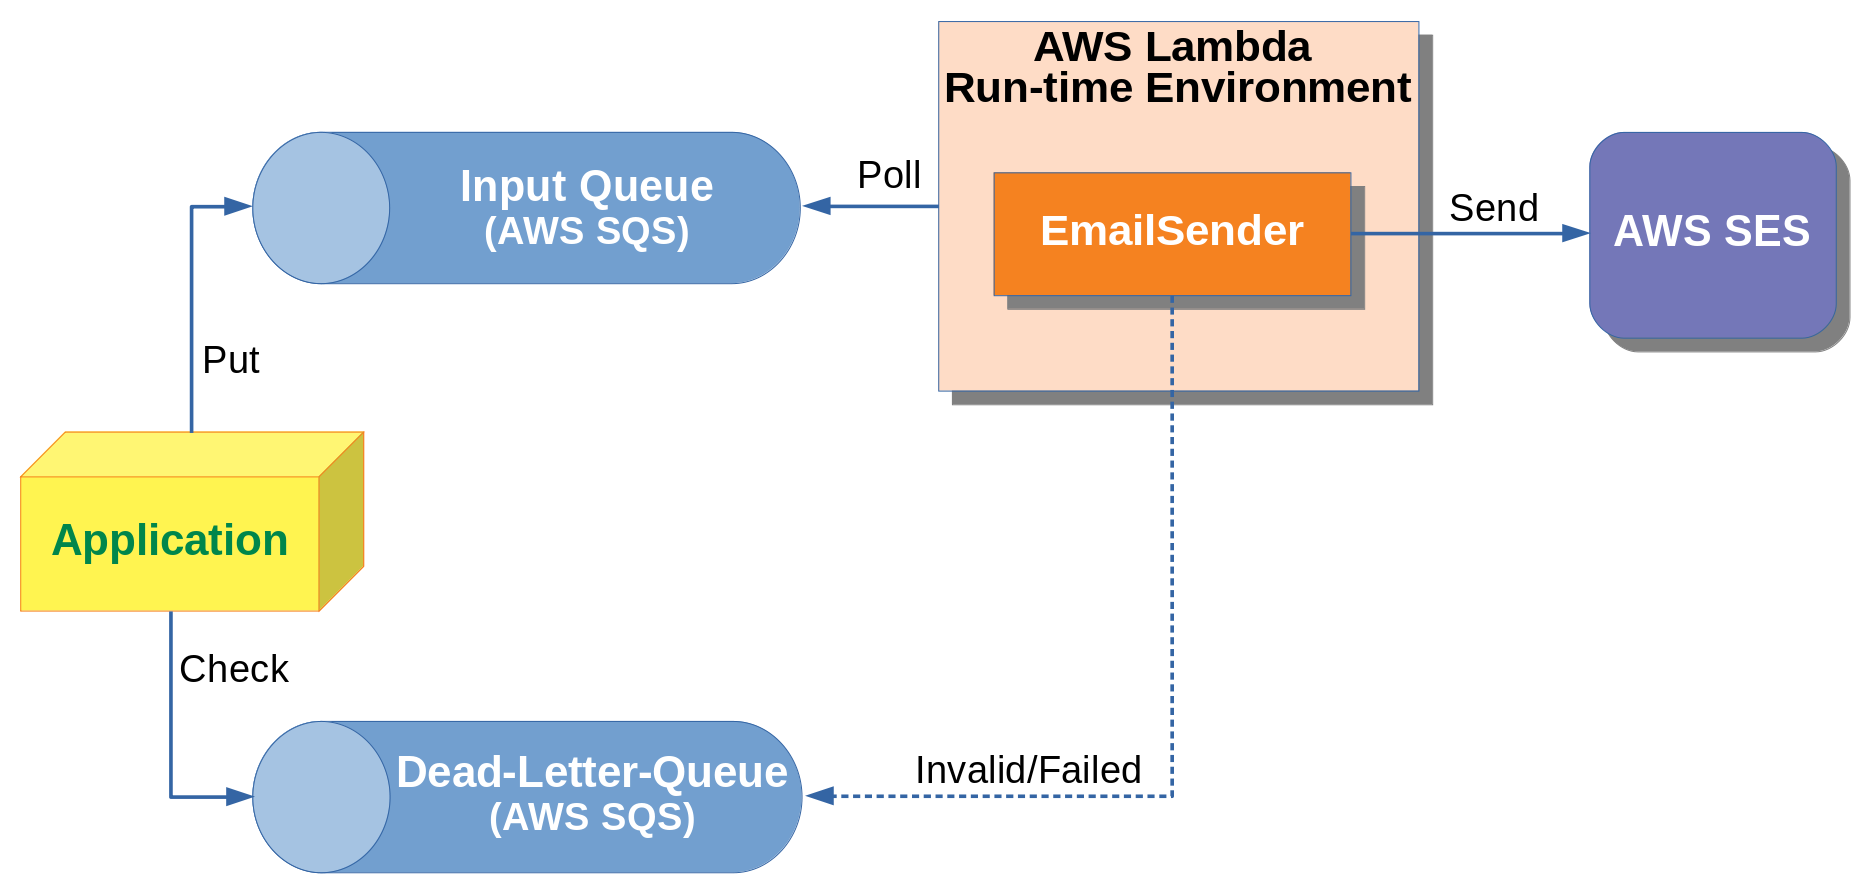
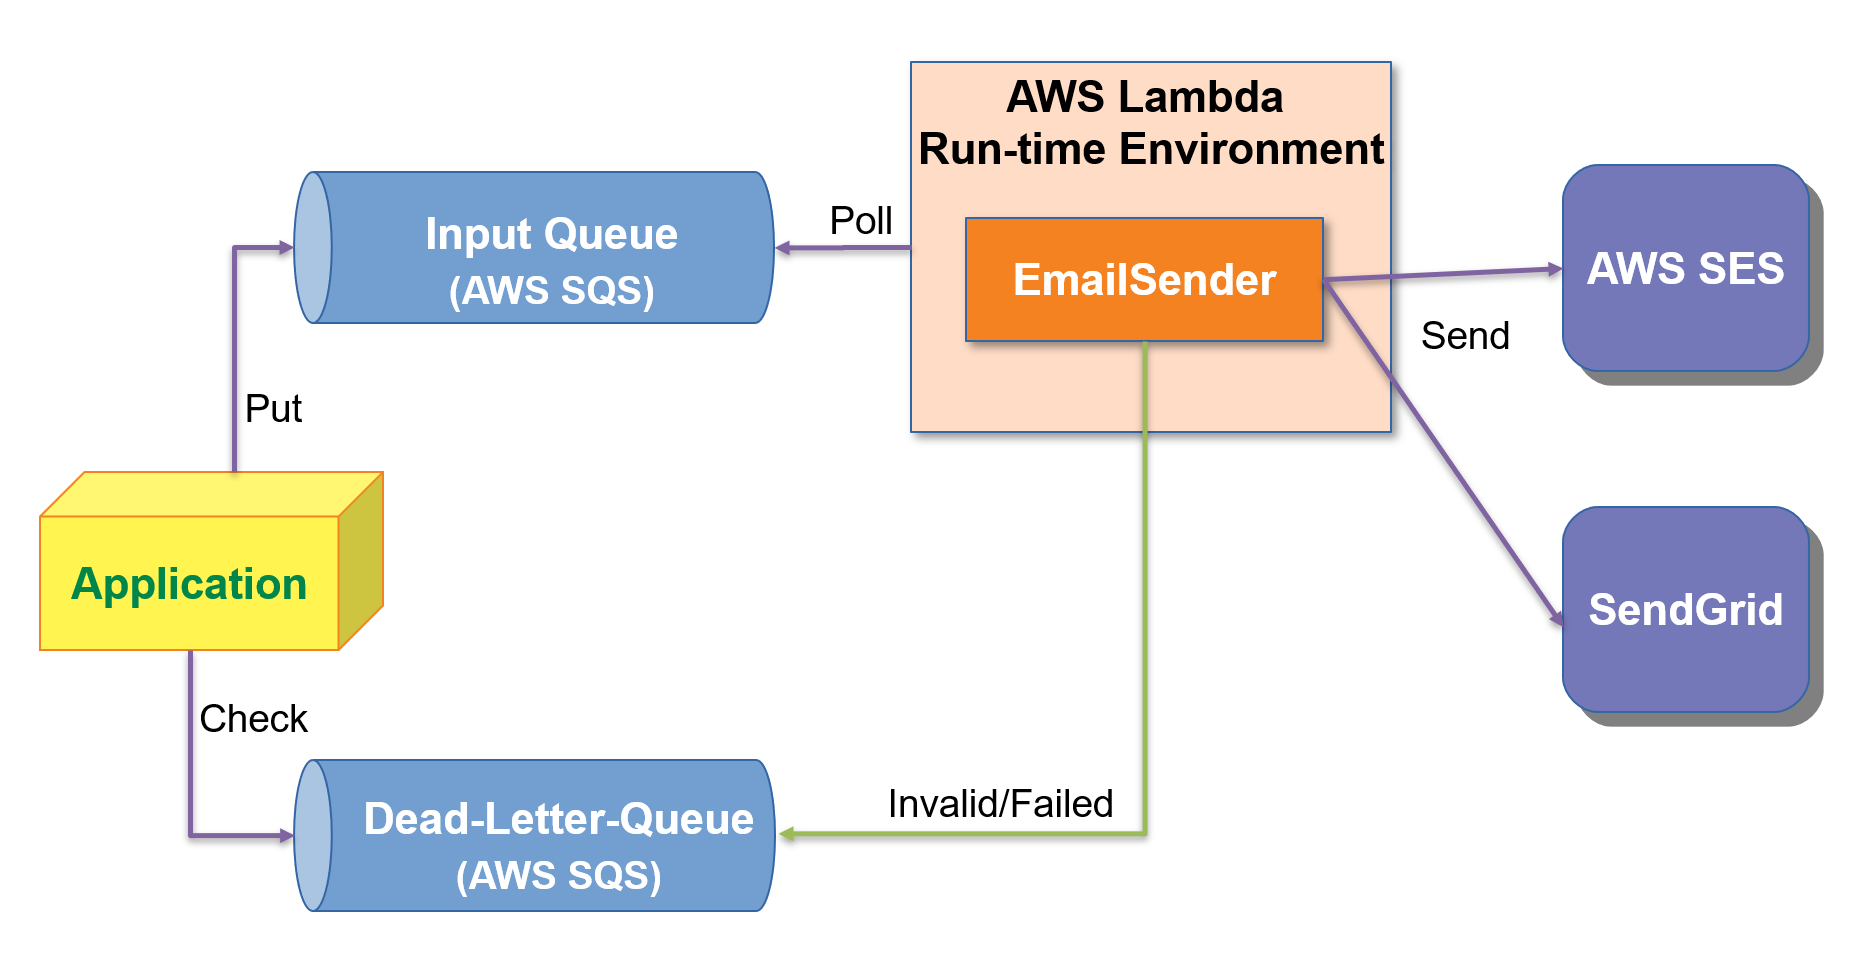
Add SendGrid support

Changed region(s): [[0.0, 0.0, 0.9962, 0.9989], [0.8094, 0.5146, 0.9962, 0.787], [0.7783, 0.4843, 0.8094, 0.5751]]

diff --git a/src/main/java/net/sf/jabb/email/sender/LambdaEmailSender.java b/src/main/java/net/sf/jabb/email/sender/LambdaEmailSender.java
@@ -22,24 +22,25 @@ import java.util.Map;
  * The AWS Lambda request handler that takes input from SQS and send them out through SES.
  */
 public class LambdaEmailSender implements RequestHandler<SQSEvent, Boolean> {
-    public static final String ENV_NAME_SES_REGION = "SES_REGION";
     public static final String ENV_NAME_DLQ_URL = "DLQ_URL";
+    public static final String ENV_NAME_SENDER = "SENDER";
 
     private static final Logger logger = LogManager.getLogger(LambdaEmailSender.class);
     private static ObjectMapper objectMapper = new ObjectMapper();
 
+    @Override
     public Boolean handleRequest(SQSEvent event, Context context) {
         // initialization for all messages
-        String region = System.getenv(ENV_NAME_SES_REGION);
-        if (region == null || region.length() == 0){
-            logger.error("Please specify through which AWS region should emails be sent in environment variable '{}'",
-                    ENV_NAME_SES_REGION);
-            throw new IllegalArgumentException("Environment Variable '" + ENV_NAME_SES_REGION + "' is not set");
+        MessageSendingService sender;
+        String senderName = System.getenv(ENV_NAME_SENDER);
+        if ("SES".equalsIgnoreCase(senderName)){
+            sender = new AwsSesMessageSendingService();
+        }else if ("SendGrid".equalsIgnoreCase(senderName)){
+            sender = new SendGridMessageSendingService();
+        }else{
+            throw new IllegalArgumentException("Environment variable '" + ENV_NAME_SENDER +
+                    "' must be set to either 'SES' or 'SendGrid', it is actually: " + senderName);
         }
-        logger.debug("Using AWS region '{}' for sending emails", region);
-        AmazonSimpleEmailService client = AmazonSimpleEmailServiceClientBuilder.standard()
-                .withRegion(region)
-                .build();
 
         // loop through all messages
         boolean allSucceeded = true;
@@ -63,18 +64,18 @@ public class LambdaEmailSender implements RequestHandler<SQSEvent, Boolean> {
 
                 // send
                 try{
-                    send(client, emailMsg);
+                    sender.send(emailMsg);
                     sentCount ++;
                 }catch(Exception e){
                     allSucceeded = false;
-                    logger.error("Failed to send email, will never retry. Source: {}, Id: {}, Error: {}, From: {}, To: {}, Subject: {}",
-                            eventMsg.getEventSourceArn(), eventMsg.getMessageId(), e.getMessage(), emailMsg.getFrom(), emailMsg.getTo(), emailMsg.getSubject());
-                    copyQuietly(eventMsg, "Failed to send: " + e.getMessage());
+                    logger.error("Failed to send email through {}, will never retry. Source: {}, Id: {}, Error: {}, From: {}, To: {}, Subject: {}",
+                            senderName, eventMsg.getEventSourceArn(), eventMsg.getMessageId(), e.getMessage(), emailMsg.getFrom(), emailMsg.getTo(), emailMsg.getSubject());
+                    copyQuietly(eventMsg, "Failed to send through " + senderName + ": " + e.getMessage());
                     continue;
                 }
             }
         }
-        logger.info("Handled {} in total. Sent: {}, Invalid JSON: {}.", event.getRecords().size(), sentCount, invalidJsonCount);
+        logger.info("Handled {} in total. Sent through {}: {}, Invalid JSON: {}.", event.getRecords().size(), senderName, sentCount, invalidJsonCount);
         return allSucceeded;
     }
 
@@ -128,40 +129,4 @@ public class LambdaEmailSender implements RequestHandler<SQSEvent, Boolean> {
         sqs.sendMessage(req);
     }
 
-    /**
-     * Send out email through AWS SES.
-     * This method might through exception if calling to SES API fails.
-     * @param ses   SES client
-     * @param msg   Detail of the Email message to be sent
-     */
-    protected void send(AmazonSimpleEmailService ses, MessageToSend msg){
-        SendEmailRequest request = new SendEmailRequest()
-                .withSource(msg.getFrom())
-                .withDestination(new Destination())
-                .withMessage(new Message()
-                        .withSubject(new Content().withCharset("UTF-8").withData(msg.getSubject()))
-                        .withBody(new Body()));
-
-        // To
-        String toAddressesString = msg.getTo();
-        Destination dest = request.getDestination();
-        if (toAddressesString.indexOf(';') >= 0 || toAddressesString.indexOf(',') >= 0){
-            dest.withToAddresses(toAddressesString.split(" *[;,]+ *"));
-        }else{
-            dest.withToAddresses(toAddressesString);
-        }
-
-        // Body
-        Body body = request.getMessage().getBody();
-        String bodyHtml = msg.getBodyHtml();
-        String bodyText = msg.getBodyText();
-        if (bodyHtml != null && bodyHtml.length() > 0){
-            body.withHtml(new Content().withCharset("UTF-8").withData(bodyHtml));
-        }
-        if (bodyText != null && bodyText.length() > 0){
-            body.withText(new Content().withCharset("UTF-8").withData(bodyText));
-        }
-
-        ses.sendEmail(request);
-    }
 }

diff --git a/src/main/java/net/sf/jabb/email/sender/AwsSesMessageSendingService.java b/src/main/java/net/sf/jabb/email/sender/AwsSesMessageSendingService.java
@@ -1,0 +1,62 @@
+package net.sf.jabb.email.sender;
+
+import com.amazonaws.services.simpleemail.AmazonSimpleEmailService;
+import com.amazonaws.services.simpleemail.AmazonSimpleEmailServiceClientBuilder;
+import com.amazonaws.services.simpleemail.model.*;
+import org.apache.logging.log4j.LogManager;
+import org.apache.logging.log4j.Logger;
+
+/**
+ * Service for sending emails through AWS SES
+ */
+public class AwsSesMessageSendingService implements MessageSendingService{
+    private static final Logger logger = LogManager.getLogger(AwsSesMessageSendingService.class);
+
+    public static final String ENV_NAME_SES_REGION = "SES_REGION";
+
+    protected AmazonSimpleEmailService ses;
+
+    public AwsSesMessageSendingService(){
+        // initialization for all messages
+        String region = System.getenv(ENV_NAME_SES_REGION);
+        if (region == null || region.length() == 0){
+            throw new IllegalArgumentException("Please specify through which AWS region should emails be sent in environment variable: " + ENV_NAME_SES_REGION);
+        }
+        logger.debug("Using AWS region '{}' for sending emails", region);
+        ses = AmazonSimpleEmailServiceClientBuilder.standard()
+                .withRegion(region)
+                .build();
+    }
+
+    @Override
+    public void send(MessageToSend msg) {
+        SendEmailRequest request = new SendEmailRequest()
+                .withSource(msg.getFrom())
+                .withDestination(new Destination())
+                .withMessage(new Message()
+                        .withSubject(new Content().withCharset("UTF-8").withData(msg.getSubject()))
+                        .withBody(new Body()));
+
+        // To
+        String toAddressesString = msg.getTo();
+        Destination dest = request.getDestination();
+        if (toAddressesString.indexOf(';') >= 0 || toAddressesString.indexOf(',') >= 0){
+            dest.withToAddresses(toAddressesString.split(" *[;,]+ *"));
+        }else{
+            dest.withToAddresses(toAddressesString);
+        }
+
+        // Body
+        Body body = request.getMessage().getBody();
+        String bodyHtml = msg.getBodyHtml();
+        String bodyText = msg.getBodyText();
+        if (bodyHtml != null && bodyHtml.length() > 0){
+            body.withHtml(new Content().withCharset("UTF-8").withData(bodyHtml));
+        }
+        if (bodyText != null && bodyText.length() > 0){
+            body.withText(new Content().withCharset("UTF-8").withData(bodyText));
+        }
+
+        ses.sendEmail(request);
+    }
+}

diff --git a/src/main/java/net/sf/jabb/email/sender/SendGridMessageSendingService.java b/src/main/java/net/sf/jabb/email/sender/SendGridMessageSendingService.java
@@ -1,0 +1,40 @@
+package net.sf.jabb.email.sender;
+
+import com.sendgrid.*;
+
+import java.io.IOException;
+
+/**
+ * Service for sending out emails through SendGrid
+ */
+public class SendGridMessageSendingService implements MessageSendingService {
+    public static final String ENV_NAME_SENDGRID_API_KEY = "SENDGRID_API_KEY";
+
+    protected SendGrid sg;
+
+    public SendGridMessageSendingService(){
+        String apiKey = System.getenv(ENV_NAME_SENDGRID_API_KEY);
+        if (apiKey == null || apiKey.length() == 0){
+            throw new IllegalArgumentException("Please specify SendGrid API key in environment variable: " + ENV_NAME_SENDGRID_API_KEY);
+
+        }
+        sg = new SendGrid(apiKey);
+    }
+
+    @Override
+    public void send(MessageToSend msg) throws IOException, IllegalStateException {
+        Content content = msg.getBodyHtml() != null ?
+                new Content("text/html", msg.getBodyHtml()) :
+                new Content("text/plain", msg.getBodyText());
+        Mail mail = new Mail(new Email(msg.getFrom()), msg.getSubject(), new Email(msg.getTo()), content);
+
+        com.sendgrid.Request request = new Request();
+        request.setMethod(Method.POST);
+        request.setEndpoint("mail/send");
+        request.setBody(mail.build());
+        Response response = sg.api(request);
+        if (response.getStatusCode() % 100 != 2){
+            throw new IllegalStateException("Failed to send to SendGrid. Status: " + response.getStatusCode() + ", Body: " + response.getBody());
+        }
+    }
+}

diff --git a/src/main/java/net/sf/jabb/email/sender/MessageSendingService.java b/src/main/java/net/sf/jabb/email/sender/MessageSendingService.java
@@ -1,0 +1,15 @@
+package net.sf.jabb.email.sender;
+
+/**
+ * The service that can send out messages.
+ */
+public interface MessageSendingService {
+    /**
+     * Hand over the message to the service for sending out.
+     * This method might throw exception if calling to service provider's API fails.
+     * @param msg   Detail of the Email message to be sent
+     * @throws Exception    If failed to start sending the message.
+     *                      Please note that a successful return of this method does not mean the message had been already delivered.
+     */
+    void send(MessageToSend msg) throws Exception;
+}

diff --git a/README.md b/README.md
@@ -1,6 +1,6 @@
-# AWS Lambda function that sends emails through SES
+# AWS Lambda function that sends emails through SES or SendGrid
 
-This Lambda function receives input from AWS SQS, then sends out emails through AWS SES.
+This Lambda function receives input from AWS SQS, then sends out emails through AWS SES or SendGrid.
 
 ![Alt Architecture Overview Diagram](https://raw.githubusercontent.com/james-hu/jabb-email-sender/master/doc/Overview.png)
 
@@ -9,7 +9,7 @@ This Lambda function receives input from AWS SQS, then sends out emails through 
 
 You just need to put details of the email messages into the input SQS queue.
 If configured properly, the lambda function should be able to pick up messages from the input SQS queue
-and send them out through SES. Invalid/failed messages will end up in the Dead-Letter-Queue.
+and send them out. Invalid/failed messages will end up in the Dead-Letter-Queue.
 
 ### Build
 
@@ -31,8 +31,16 @@ The handler class is: `net.sf.jabb.email.sender.LambdaEmailSender`
 
 ### Environment variables
 
-* SES_REGION - In which AWS region should SES be used for sending out emails. e.g. `us-west-2`
+Always needed:
+* SENDER - Can be either `SES` or `SendGrid`
 * DLQ_URL - URL to the Dead-Letter-Queue that all invalid/failed emails should go. e.g. `https://sqs.us-west-2.amazonaws.com/123456789/email-dead-letter-queue`
+
+Needed only if you want to use AWS SES for sending out emails:
+* SES_REGION - In which AWS region should SES be used for sending out emails. e.g. `us-west-2`
+
+Needed only if you want to use SendGrid for sending out emails:
+* SENDGRID_API_KEY - API key for accessing SendGrid API
+
 
 ### Memory usage
 
@@ -48,7 +56,8 @@ The Lambda function needs to run in a role with these policies:
 
 * `AWSLambdaSQSQueueExecutionRole`
 * `AWSLambdaBasicExecutionRole`
-* These permissions on SES:
-  * `SendEmail`
 * These permissions on the Dead-Letter-Queue specified by environment variable `DLQ_URL`:
   * `SendMessage`
+* These permissions on SES (if you want to use SES for actually sending out emails):
+  * `SendEmail`
+
